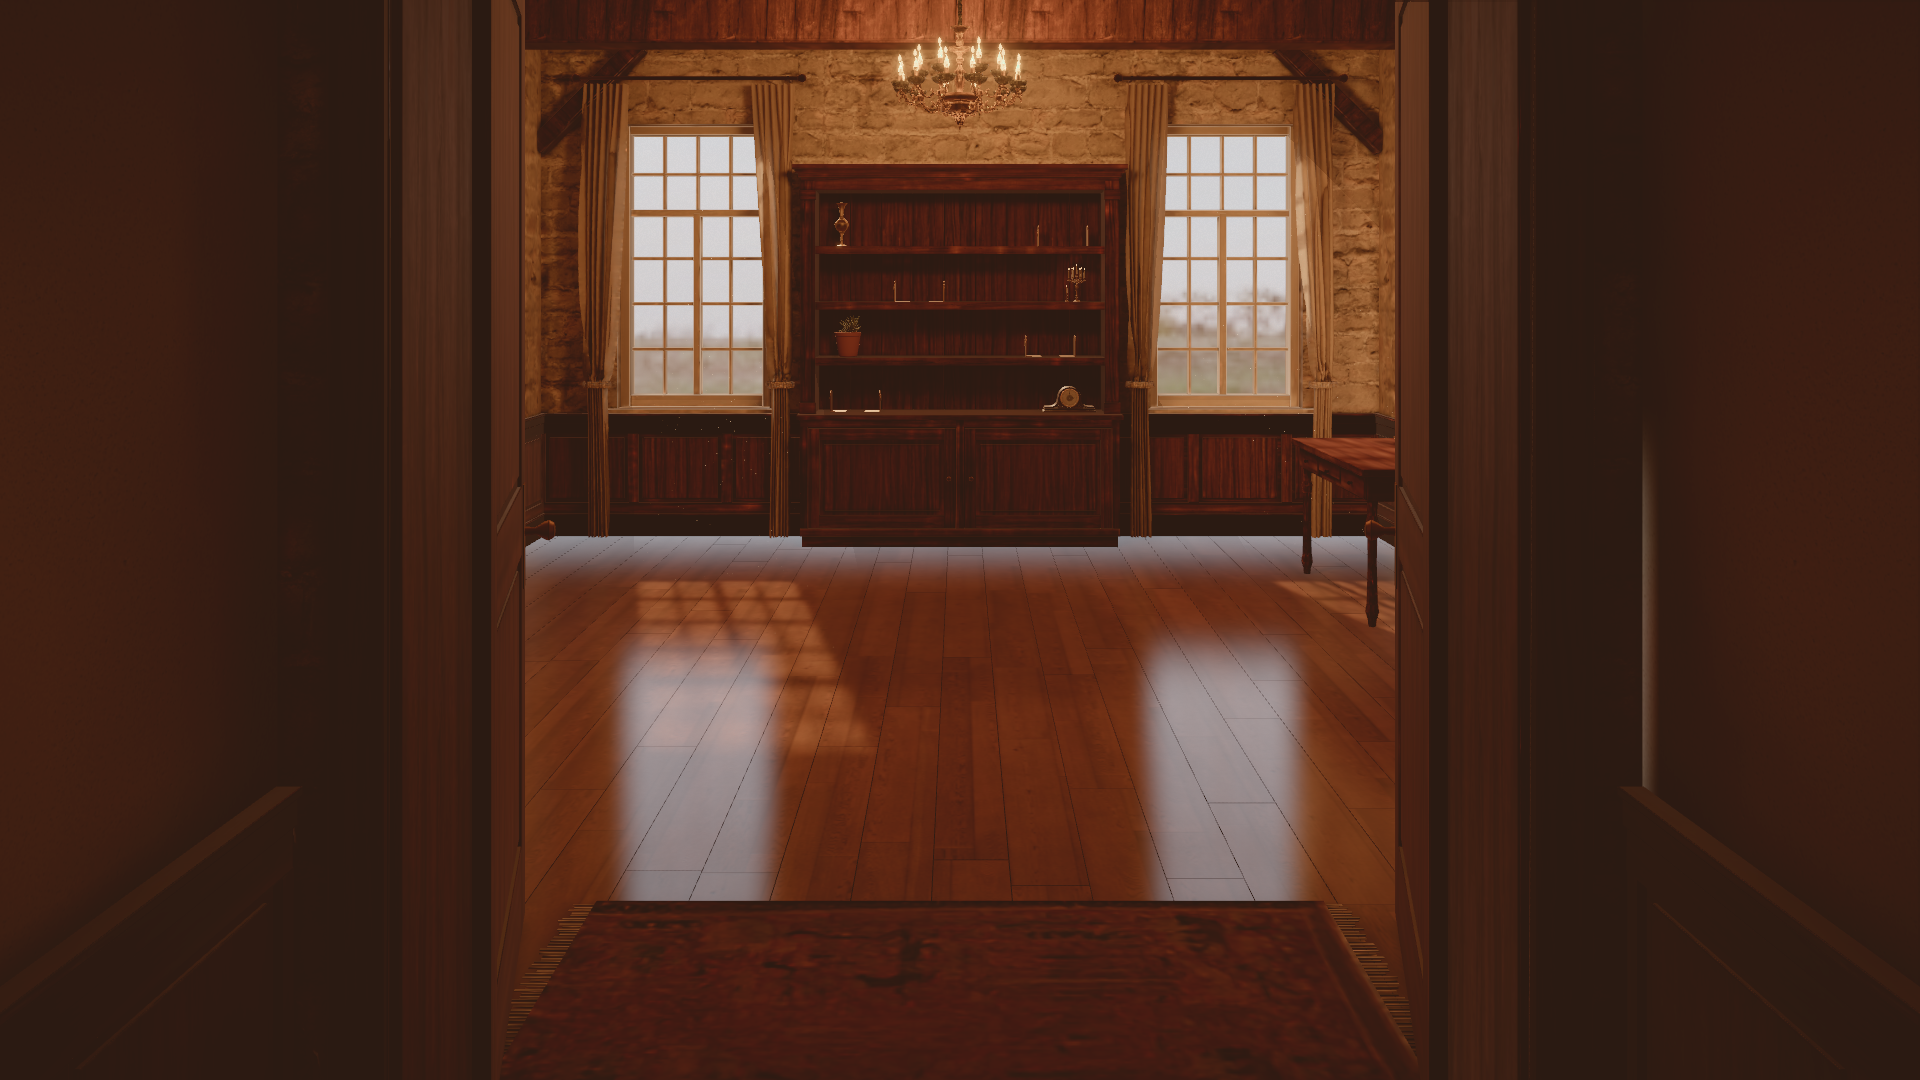
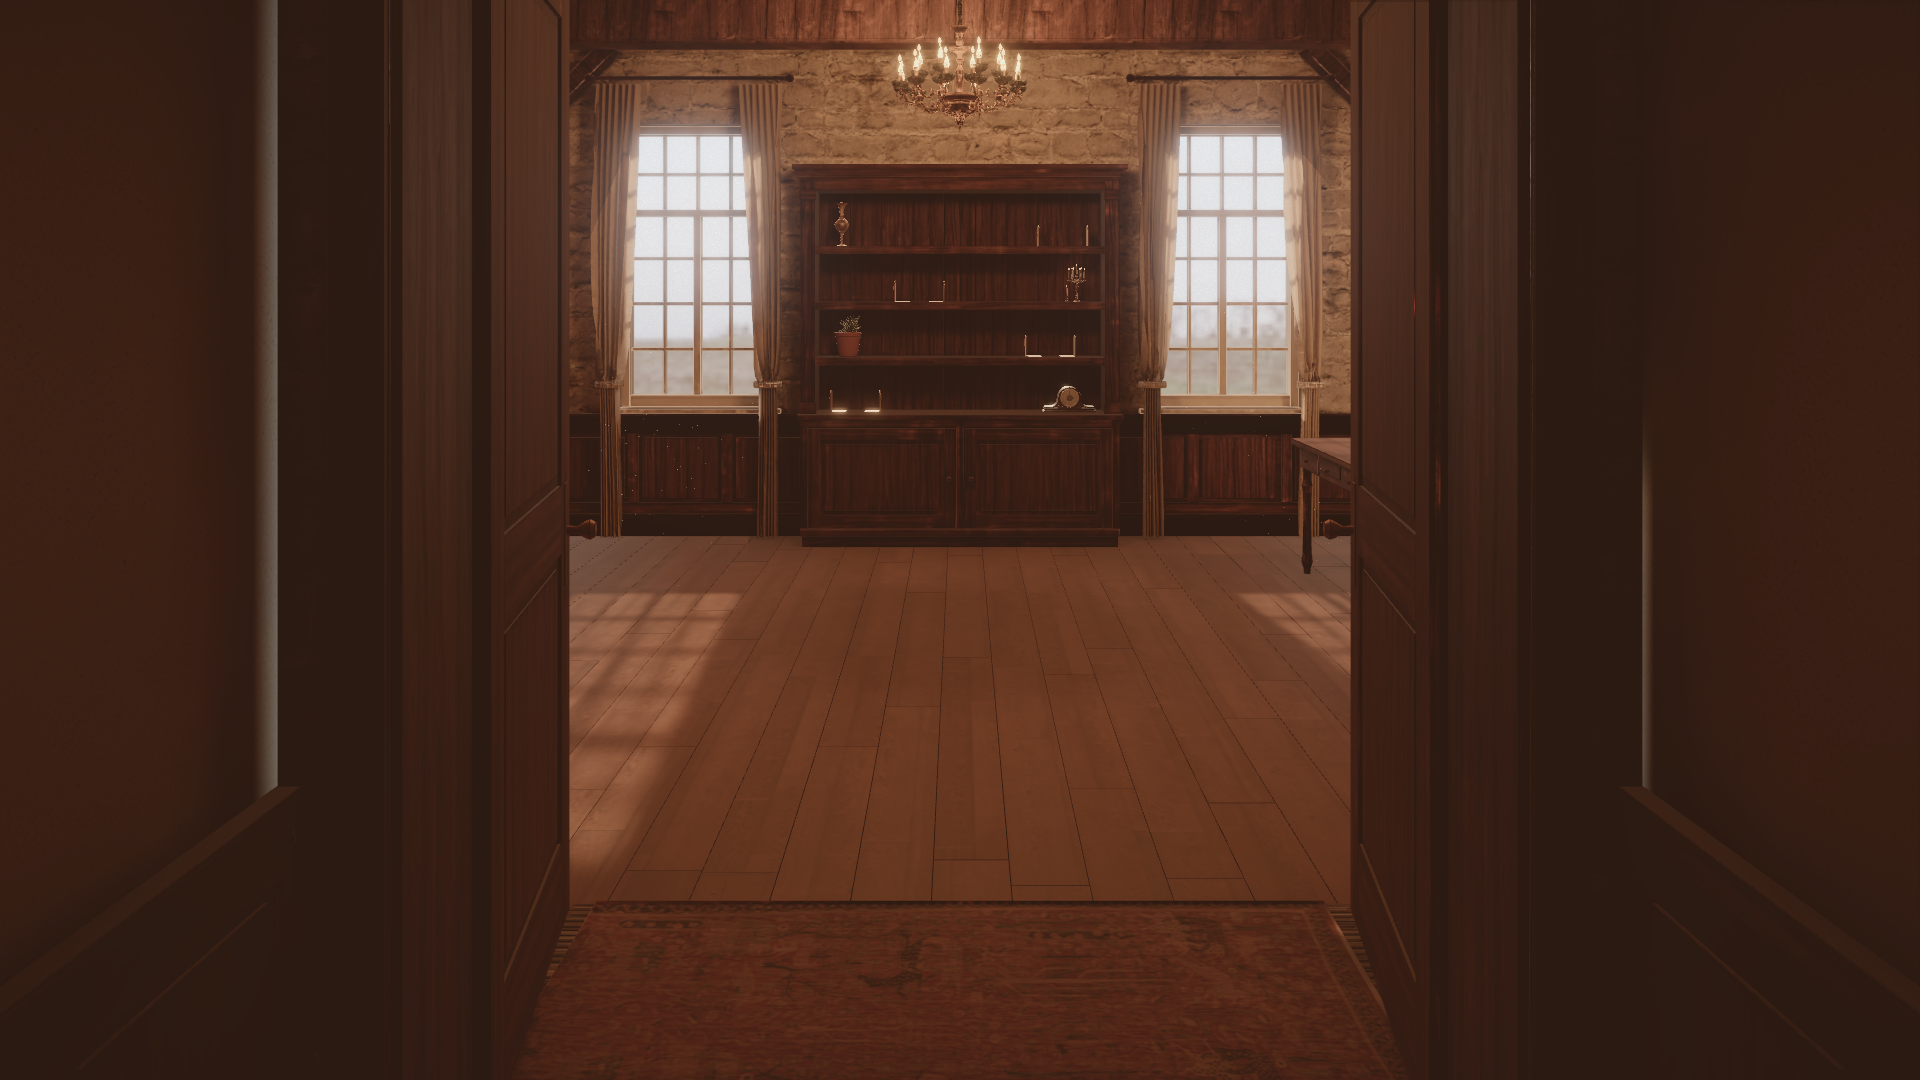
look dev: iteração 2 da sala (cor, sol, tapete, reflexo)

Changed region(s): [[0.25, 0.0, 0.75, 0.9472], [0.125, 0.0, 0.1562, 0.7333]]

diff --git a/scripts/prepare-textures.ts b/scripts/prepare-textures.ts
@@ -166,17 +166,17 @@ async function main() {
   mkdirSync(OUT, { recursive: true })
 
   // Floor: wide varnished planks, warmed toward floor base #7A4E32.
-  await pbr('floor_wood', 'floor', { mean: '#76502F', saturation: 1.15, contrast: 1.15 }, { roughness: 0.32, spread: 0.7 })
+  await pbr('floor_wood', 'floor', { mean: '#6E4E36', saturation: 0.95, contrast: 1.15 }, { roughness: 0.32, spread: 0.7 })
   // Stone: light limestone/sandstone #A89A84–#C8BBA2, slightly warm.
-  await pbr('wall_stone', 'stone', { mean: '#B3A48A', saturation: 0.9 }, { disp: true, roughness: 0.85 })
+  await pbr('wall_stone', 'stone', { mean: '#ADA18C', saturation: 0.65 }, { disp: true, roughness: 0.85 })
   // Bookcase: dark mahogany, 25% less saturated than the source.
-  await pbr('bookcase_wood', 'bookcase', { mean: '#4F2D1F', saturation: 0.75 }, { roughness: 0.42 })
+  await pbr('bookcase_wood', 'bookcase', { mean: '#4A3124', saturation: 0.5 }, { roughness: 0.42 })
   // Wainscot + door: same wood, one tone lighter (direção de arte: mesma família).
-  await pbr('bookcase_wood', 'wainscot', { mean: '#5E3726', saturation: 0.75 }, { roughness: 0.45 })
+  await pbr('bookcase_wood', 'wainscot', { mean: '#58392A', saturation: 0.5 }, { roughness: 0.45 })
   // Desk: same family, between the two.
-  await pbr('bookcase_wood', 'desk', { mean: '#573223', saturation: 0.8 }, { roughness: 0.4 })
+  await pbr('bookcase_wood', 'desk', { mean: '#523628', saturation: 0.55 }, { roughness: 0.4 })
   // Beams: rough grey wood tinted to dark brown.
-  await pbr('beam_wood', 'beam', { mean: '#4A3022', saturation: 0.6, contrast: 1.1 }, { roughness: 0.78 })
+  await pbr('beam_wood', 'beam', { mean: '#46322A', saturation: 0.45, contrast: 1.1 }, { roughness: 0.78 })
   // Ceiling: warm plaster, never pure white.
   await pbr('ceiling_plaster', 'plaster', { mean: '#CDBFA5', contrast: 1.6 }, { roughness: 0.92, spread: 0.3 })
   // Linen: only the weave pattern (source is blue) tinted to #DCCDB0.

diff --git a/src/scene/Grade.tsx b/src/scene/Grade.tsx
@@ -7,7 +7,7 @@ import { Color, Uniform, Vector3 } from 'three'
  * stay warm, but the frame is not "orange flat" (direção de arte: o quente vem da luz).
  */
 class WhiteBalanceEffect extends Effect {
-  constructor({ gains = new Vector3(0.9, 1.0, 1.18) } = {}) {
+  constructor({ gains = new Vector3(0.86, 1.0, 1.26) } = {}) {
     super(
       'WhiteBalance',
       /* glsl */ `
@@ -27,16 +27,26 @@ void mainImage(const in vec4 inputColor, const in vec2 uv, out vec4 outputColor)
  * never pure black ("nunca preto puro").
  */
 class ShadowFloorEffect extends Effect {
-  constructor({ color = '#2A1A12' } = {}) {
+  constructor({ color = '#2A1A12', saturation = 0.86 } = {}) {
     const c = new Color(color) // three converts the sRGB hex to linear
     super(
       'ShadowFloor',
       /* glsl */ `
 uniform vec3 floorColor;
+uniform float saturation;
 void mainImage(const in vec4 inputColor, const in vec2 uv, out vec4 outputColor) {
-  outputColor = vec4(floorColor + (1.0 - floorColor) * inputColor.rgb, inputColor.a);
+  vec3 c = inputColor.rgb;
+  // slight desaturation after AgX: warm light, not orange paint
+  c = mix(vec3(dot(c, vec3(0.2126, 0.7152, 0.0722))), c, saturation);
+  outputColor = vec4(floorColor + (1.0 - floorColor) * c, inputColor.a);
 }`,
-      { blendFunction: BlendFunction.NORMAL, uniforms: new Map([['floorColor', new Uniform(new Vector3(c.r, c.g, c.b))]]) },
+      {
+        blendFunction: BlendFunction.NORMAL,
+        uniforms: new Map<string, Uniform>([
+          ['floorColor', new Uniform(new Vector3(c.r, c.g, c.b))],
+          ['saturation', new Uniform(saturation)],
+        ]),
+      },
     )
   }
 }

diff --git a/src/scene/floorReflectionShader.ts b/src/scene/floorReflectionShader.ts
@@ -13,8 +13,8 @@ export const floorReflection: FloorReflectionUniforms = {
   tReflect: { value: null },
   reflectMatrix: { value: new Matrix4() },
   reflectMix: { value: 0 },
-  reflectStretch: { value: 0.035 },
-  reflectBoost: { value: new URLSearchParams(window.location.search).get('debug') === 'reflect' ? 30 : 2.5 },
+  reflectStretch: { value: 0.075 },
+  reflectBoost: { value: new URLSearchParams(window.location.search).get('debug') === 'reflect' ? 30 : 1.5 },
 }
 
 /** GLSL injected into the floor material (Lightmaps.ts). Replaces the env radiance by the blurred reflection. */

diff --git a/src/scene/FloorReflection.tsx b/src/scene/FloorReflection.tsx
@@ -31,7 +31,7 @@ const matName = (m: Material | Material[]) => (Array.isArray(m) ? m[0]?.name : m
  * camera, blurred (Kawase) and sampled with a vertical streak in the floor shader. The room is static, so
  * the reflection is only re-rendered when the camera moves.
  */
-export function FloorReflection({ root, strength = 0.85 }: { root: Object3D; strength?: number }) {
+export function FloorReflection({ root, strength = 1.0 }: { root: Object3D; strength?: number }) {
   const gl = useThree((s) => s.gl)
   const scene = useThree((s) => s.scene)
   const size = useThree((s) => s.size)

diff --git a/src/scene/Sky.tsx b/src/scene/Sky.tsx
@@ -9,7 +9,7 @@ import { REFLECT_LAYER } from './FloorReflection'
  * plane (a background would leak into the reflection under the walls). Display-referred JPEG, boosted to
  * read as bright outdoor light after AgX.
  */
-export function Sky({ intensity = 2.2 }: { intensity?: number }) {
+export function Sky({ intensity = 3.4 }: { intensity?: number }) {
   const tex = useTexture('/env/sky.jpg')
   const geometry = useMemo(() => {
     // upper hemisphere + ~10° below the horizon (all the windows can show); below it the reflection stays dark

diff --git a/src/scene/LightBeams.tsx b/src/scene/LightBeams.tsx
@@ -173,7 +173,7 @@ export function LightBeams() {
       new ShaderMaterial({
         vertexShader: beamVertex,
         fragmentShader: beamFragment,
-        uniforms: { uColor: { value: sunColor }, uIntensity: { value: 0.55 }, uTime: { value: 0 } },
+        uniforms: { uColor: { value: sunColor }, uIntensity: { value: 1.3 }, uTime: { value: 0 } },
         transparent: true,
         depthWrite: false,
         blending: AdditiveBlending,

diff --git a/src/scene/ShelfProps.tsx b/src/scene/ShelfProps.tsx
@@ -19,7 +19,9 @@ export function ShelfProps() {
           mat.emissiveIntensity = 6
           mat.toneMapped = false
         }
-        mat.envMapIntensity = 1
+        mat.envMapIntensity = 0.6
+        // aged brass is satin, not mirror: the env holds the hot windows
+        if (/brass/i.test(mat.name)) mat.roughness = 1.5
       }
     })
   }, [scene, quality])

diff --git a/src/scene/DynamicLights.tsx b/src/scene/DynamicLights.tsx
@@ -68,7 +68,7 @@ export function DynamicLights() {
         ref={sun}
         position={sunPos}
         color={new Color(room.lighting.sun.colorHex)}
-        intensity={7}
+        intensity={11}
         castShadow={quality === 'high'}
         shadow-mapSize={[1024, 1024]}
         shadow-bias={-0.0004}

diff --git a/blender/build_room.py b/blender/build_room.py
@@ -284,11 +284,11 @@ for i, bz in enumerate(beams["zPositions"]):
 # knee braces (mãos-francesas) in the top corners of the back wall, as in the reference
 for side in (-1, 1):
     mb = MeshBuilder(f"brace_{'left' if side < 0 else 'right'}")
-    length, sec = 0.95, 0.12
+    length, sec = 0.7, 0.12
     mb.box((-length / 2, -sec / 2, ZB + 0.005), (length / 2, sec / 2, ZB + 0.005 + sec), tile=1.0, grain="x", material="beam")
     brace = mb.finish("room", M)
     bevel(brace, width=0.012, segments=2, angle=50)
-    brace.location = b((side * (XR - 0.33), H - 0.33, 0.0))
+    brace.location = b((side * (XR - 0.245), H - 0.245, 0.0))
     brace.rotation_euler = (0.0, math.radians(side * 45), 0.0)
 log("ceiling + beams + braces")
 
@@ -756,7 +756,7 @@ if flames:
 
 L = cfg["lighting"]
 sun_data = bpy.data.lights.new("sun", "SUN")
-sun_data.energy = 7.0
+sun_data.energy = 11.0
 sun_data.angle = math.radians(1.5)
 sun_data.color = kelvin_to_rgb(L["sun"]["kelvin"])
 sun = bpy.data.objects.new("sun", sun_data)

diff --git a/docs/look-dev/iteracoes.md b/docs/look-dev/iteracoes.md
@@ -13,3 +13,14 @@ Cada entrada: data/hora, o que mudou, notas por critério (art-reviewer), diverg
 ### L2 — 2026-10-15 ~01:55 (correções aplicadas, sem nova revisão formal)
 - Título da lombada de cima para baixo (ABNT NBR 12225); corte das páginas com uma linha por folha, cadernos de 8 folhas e creme #E3D5B8 escurecendo nas bordas; grão do couro 45% menor; trama do tecido em escala de encadernação e contraste maior; frisos sólidos (sem pontos/rebites); dourado menos acobreado; canaleta 1 mm, bisel 1,2 mm; desgaste mais claro e despigmentado; luz-chave menos saturada (#FFDDB8) e env mais forte; mesa com textura em escala e DOF mais suave.
 - Pendências para a próxima rodada: tecido ainda liso a 40 cm (buckram CC0 com trama própria seria melhor); fotos de exemplo são ilustrações (a spec proíbe imagens de terceiros — trocar por fotos do usuário na Fase 6); sombra de contato da polaroid sutil.
+
+## Sala (Fase 0, frame de aprovação N0)
+
+### S1 — 2026-10-15 ~01:47 (draft)
+- Shots: `shots/latest/compare_N0.png`, `N1.png`, `N2.png`; 107/93/56 draw calls.
+- **art-reviewer:** composição 3 · luz 2 · reflexo do piso 3 · estante legível 3 · nada plástico 2 — "iterar".
+- Divergências: imagem laranja/vermelha saturada (madeira ~#7A2A1A); sol fraco e só uma mancha no N0; piso espelhado demais; folhas da porta finas e escuras; tapete borrado (bake combined de baixa resolução); estante sem leitura no N0; lampião/quadro fora do quadro; varões atravessando as mãos-francesas; bases dos apoios de latão estourando; sombras travadas no piso de cor.
+
+### S2 — 2026-10-15 ~01:53 (draft)
+- Mudanças: madeiras com saturação 0,5 e média marrom; pedra bege-acinzentada; balanço de branco mais frio e dessaturação leve pós-AgX (0,86); sol 28°/5°, força 11 (duas manchas no N0); tapete e escrivaninha em modo `lightmap` (textura 2K própria); reflexo do piso só planar, mais borrado e mais fraco; latão dos props acetinado; varões mais curtos e mãos-francesas menores; folhas da porta a 98°; céu e feixes mais fortes.
+- A faixa clara no piso junto à parede do fundo vem do lightmap (luz do céu das janelas), não do reflexo: conferido com `?off=reflect`.

diff --git a/docs/decisoes.md b/docs/decisoes.md
@@ -160,3 +160,9 @@ Formato de cada entrada:
 - Escolha: `src/scene/FloorReflection.tsx` — câmera espelhada em y=0 (com plano de corte oblíquo) renderiza só a camada de objetos que vale refletir, a meia resolução; Kawase blur; o shader do piso troca a radiância especular do env por esse reflexo com amostras verticais (borrado e alongado) — o Fresnel/rugosidade do material modulam o resultado. Só re-renderiza quando a câmera se move. Céu como cúpula (hemisfério superior), para não vazar no reflexo sob as paredes.
 - Como reverter: `quality=low` desliga; ou `reflect` em `src/scene/Room.tsx`.
 - Precisa do usuário? não.
+
+## 2026-10-15 — Look dev it.2: sol mais baixo e centrado, mais forte; madeiras menos saturadas
+- Contexto: `art-reviewer` (it.1) — luz sem direção legível (nota 2), manchas fracas e só uma visível no N0; imagem laranja/vermelha saturada.
+- Escolha: `lighting.sun.elevationDeg` 32 → 28 (manchas mais longas, vindo para a câmera), `lateralDeg` 15 → 5 (as duas manchas entram no quadro do N0); força do sol no Blender 7 → 11 (e a luz dinâmica dos props igual). Albedos de madeira com saturação 0,5–0,55 e média mais marrom; pedra mais bege-acinzentada; balanço de branco um pouco mais frio. Tapete e escrivaninha passam a `lightmap` (PBR com textura própria em 2K, desenho persa nítido) no atlas da casca. `curtains.rodOverhang` 0,2 → 0,12 e mãos-francesas menores (o varão atravessava a mão-francesa). `door.openInwardDeg` 105 → 98 (face das folhas um pouco mais visível).
+- Como reverter: `config/room.json`, `blender/build_room.py` (`sun_data.energy`), `scripts/prepare-textures.ts`, `blender/bake_config.json`.
+- Precisa do usuário? não.
